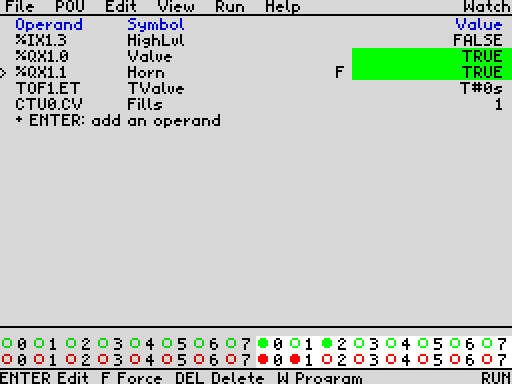
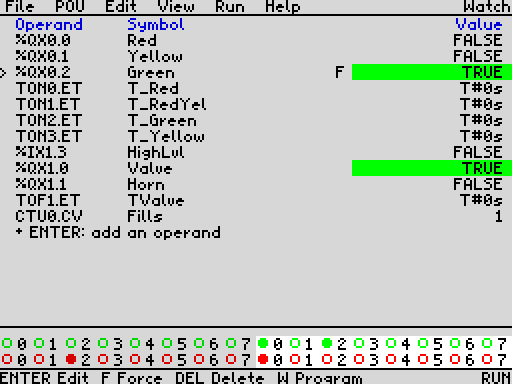
Demo: traffic light lights and timers on the watch list (first on the trend); trend labels of FB members by the instance symbol
Claude-Session: https://claude.ai/code/session_01VKWfWeHqdVXUCm7FCj2M63

diff --git a/tools/docshots.py b/tools/docshots.py
@@ -43,8 +43,7 @@ SHOTS = [
     ("sim_ld", LD + RUN + "k:4 w60"),
     ("sim_fbd", FBD + RUN + "k:B w5 k:0 w5 k:2 w60"),
     ("sim_watch", FBD + RUN + "k:B w5 k:0 w5 k:2 w30 k:W w40 " + D + D + "k:F w40"),
-    ("sim_trend", FBD + RUN + "k:G w20 k:Z w5 k:Z w5 k:B k:0 k:2 w5 k:3 w20 k:4 k:4 w80 "
-     "k:3 w20"),
+    ("sim_trend", IL + RUN + "k:G w20 k:0 w600"),
     ("xref", IL + D + "k:SS+X w60"),
     ("clip_mark", IL + D * 2 + "k:SS+A w10 " + D * 2 + "w10"),
     ("add_watch", LD + D + "k:SS+W w40"),

diff --git a/docs/MANUAL.md b/docs/MANUAL.md
@@ -477,7 +477,9 @@ left, highlighted while it is at the top.
 * The elapsed time `ET` of a timer and the value `CV` of a counter: drawn between the two lines as a
   part of the preset (`ET` / `PT`, `CV` / `PV`); the upper line means the preset is reached.
 
-![Trend page](img/sim_trend.png)
+![Trend page: the traffic light of the demo after TL_Start (`0`)](img/sim_trend.png)
+
+An FB member is labelled with the symbol of its instance (`T_Red` for `TON0.ET`).
 
 * The samples are taken from the start of the simulation, also while another page is shown. The newest
   is at the right edge; when the chart is full it moves to the left.
@@ -537,7 +539,8 @@ inputs and outputs:
 | DEMO_LD | pump with self-holding, fan run-on (TOF), alert memory (P / N contacts, set / reset), blinking lamp (2 x TP) | `4`-`7` | Q0.4-Q0.6 |
 | DEMO_FBD | inlet valve with nested gates and a 2 s run-on, overflow horn (RT, SR), service counter (CTU, after 3 fills) | byte 1: `B`, then `0`-`5` | Q1.0-Q1.2 |
 
-A symbol table names all of them. The watch list contains HighLvl, Valve, Horn, TValve.ET and Fills.CV.
+A symbol table names all of them. The watch list contains the traffic light (Red, Yellow, Green and the ET of its four timers, shown first
+on the trend page), HighLvl, Valve, Horn, TValve.ET and Fills.CV.
 
 ## 14. Reference
 
